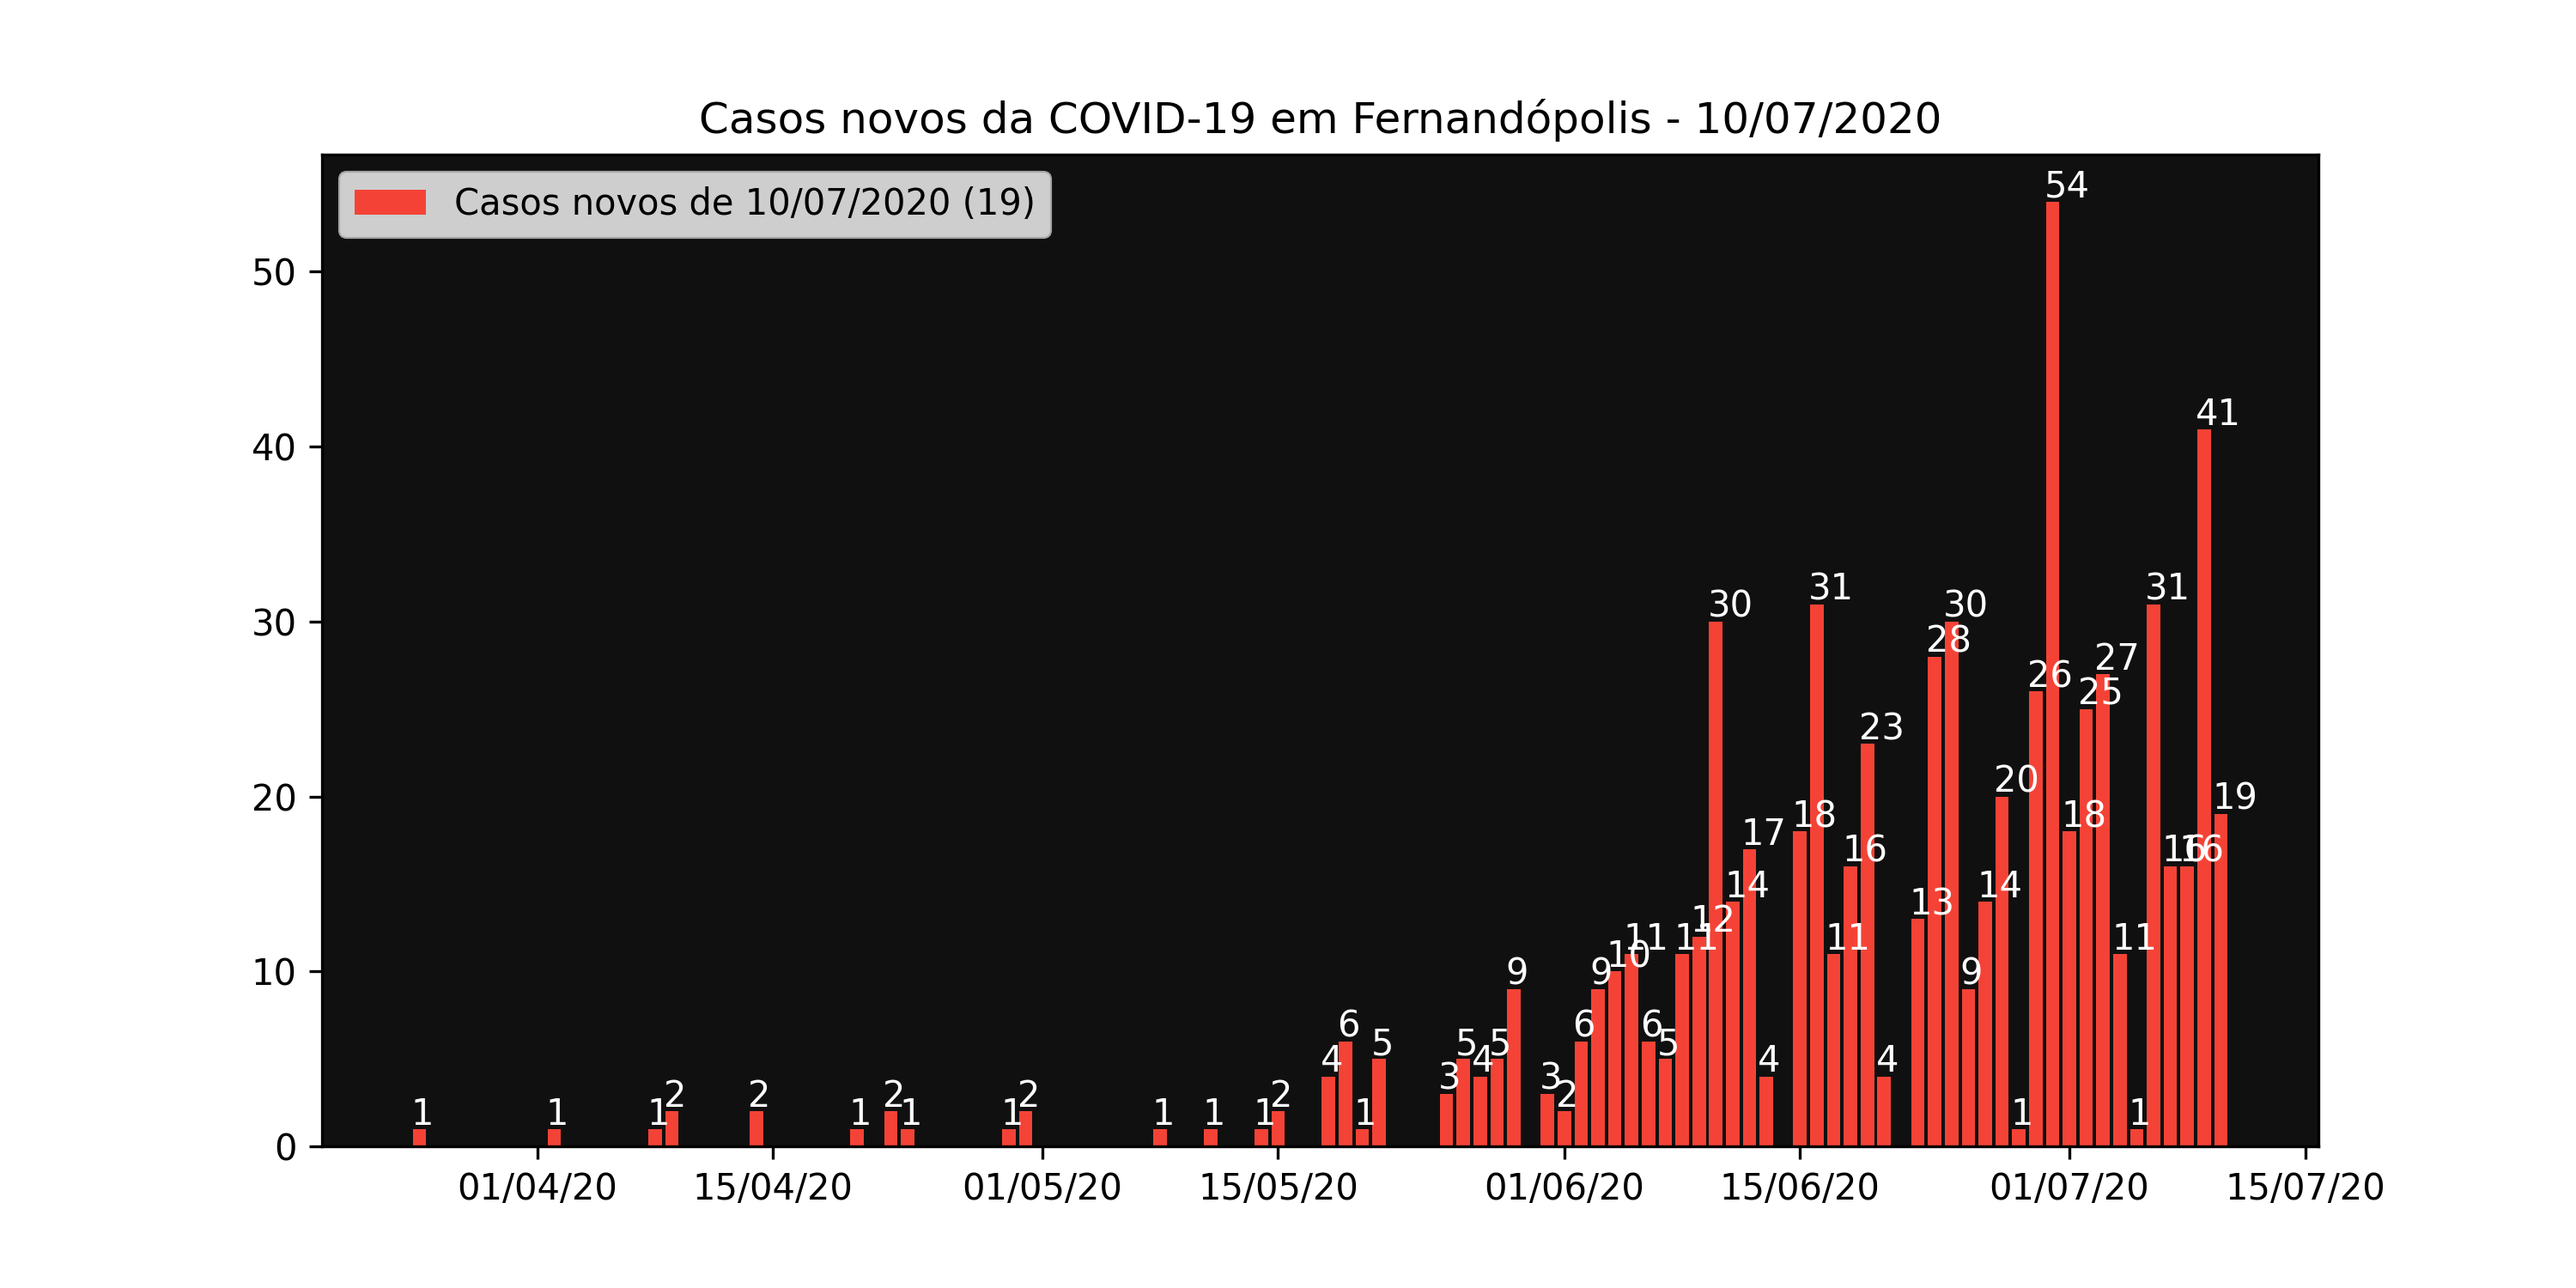
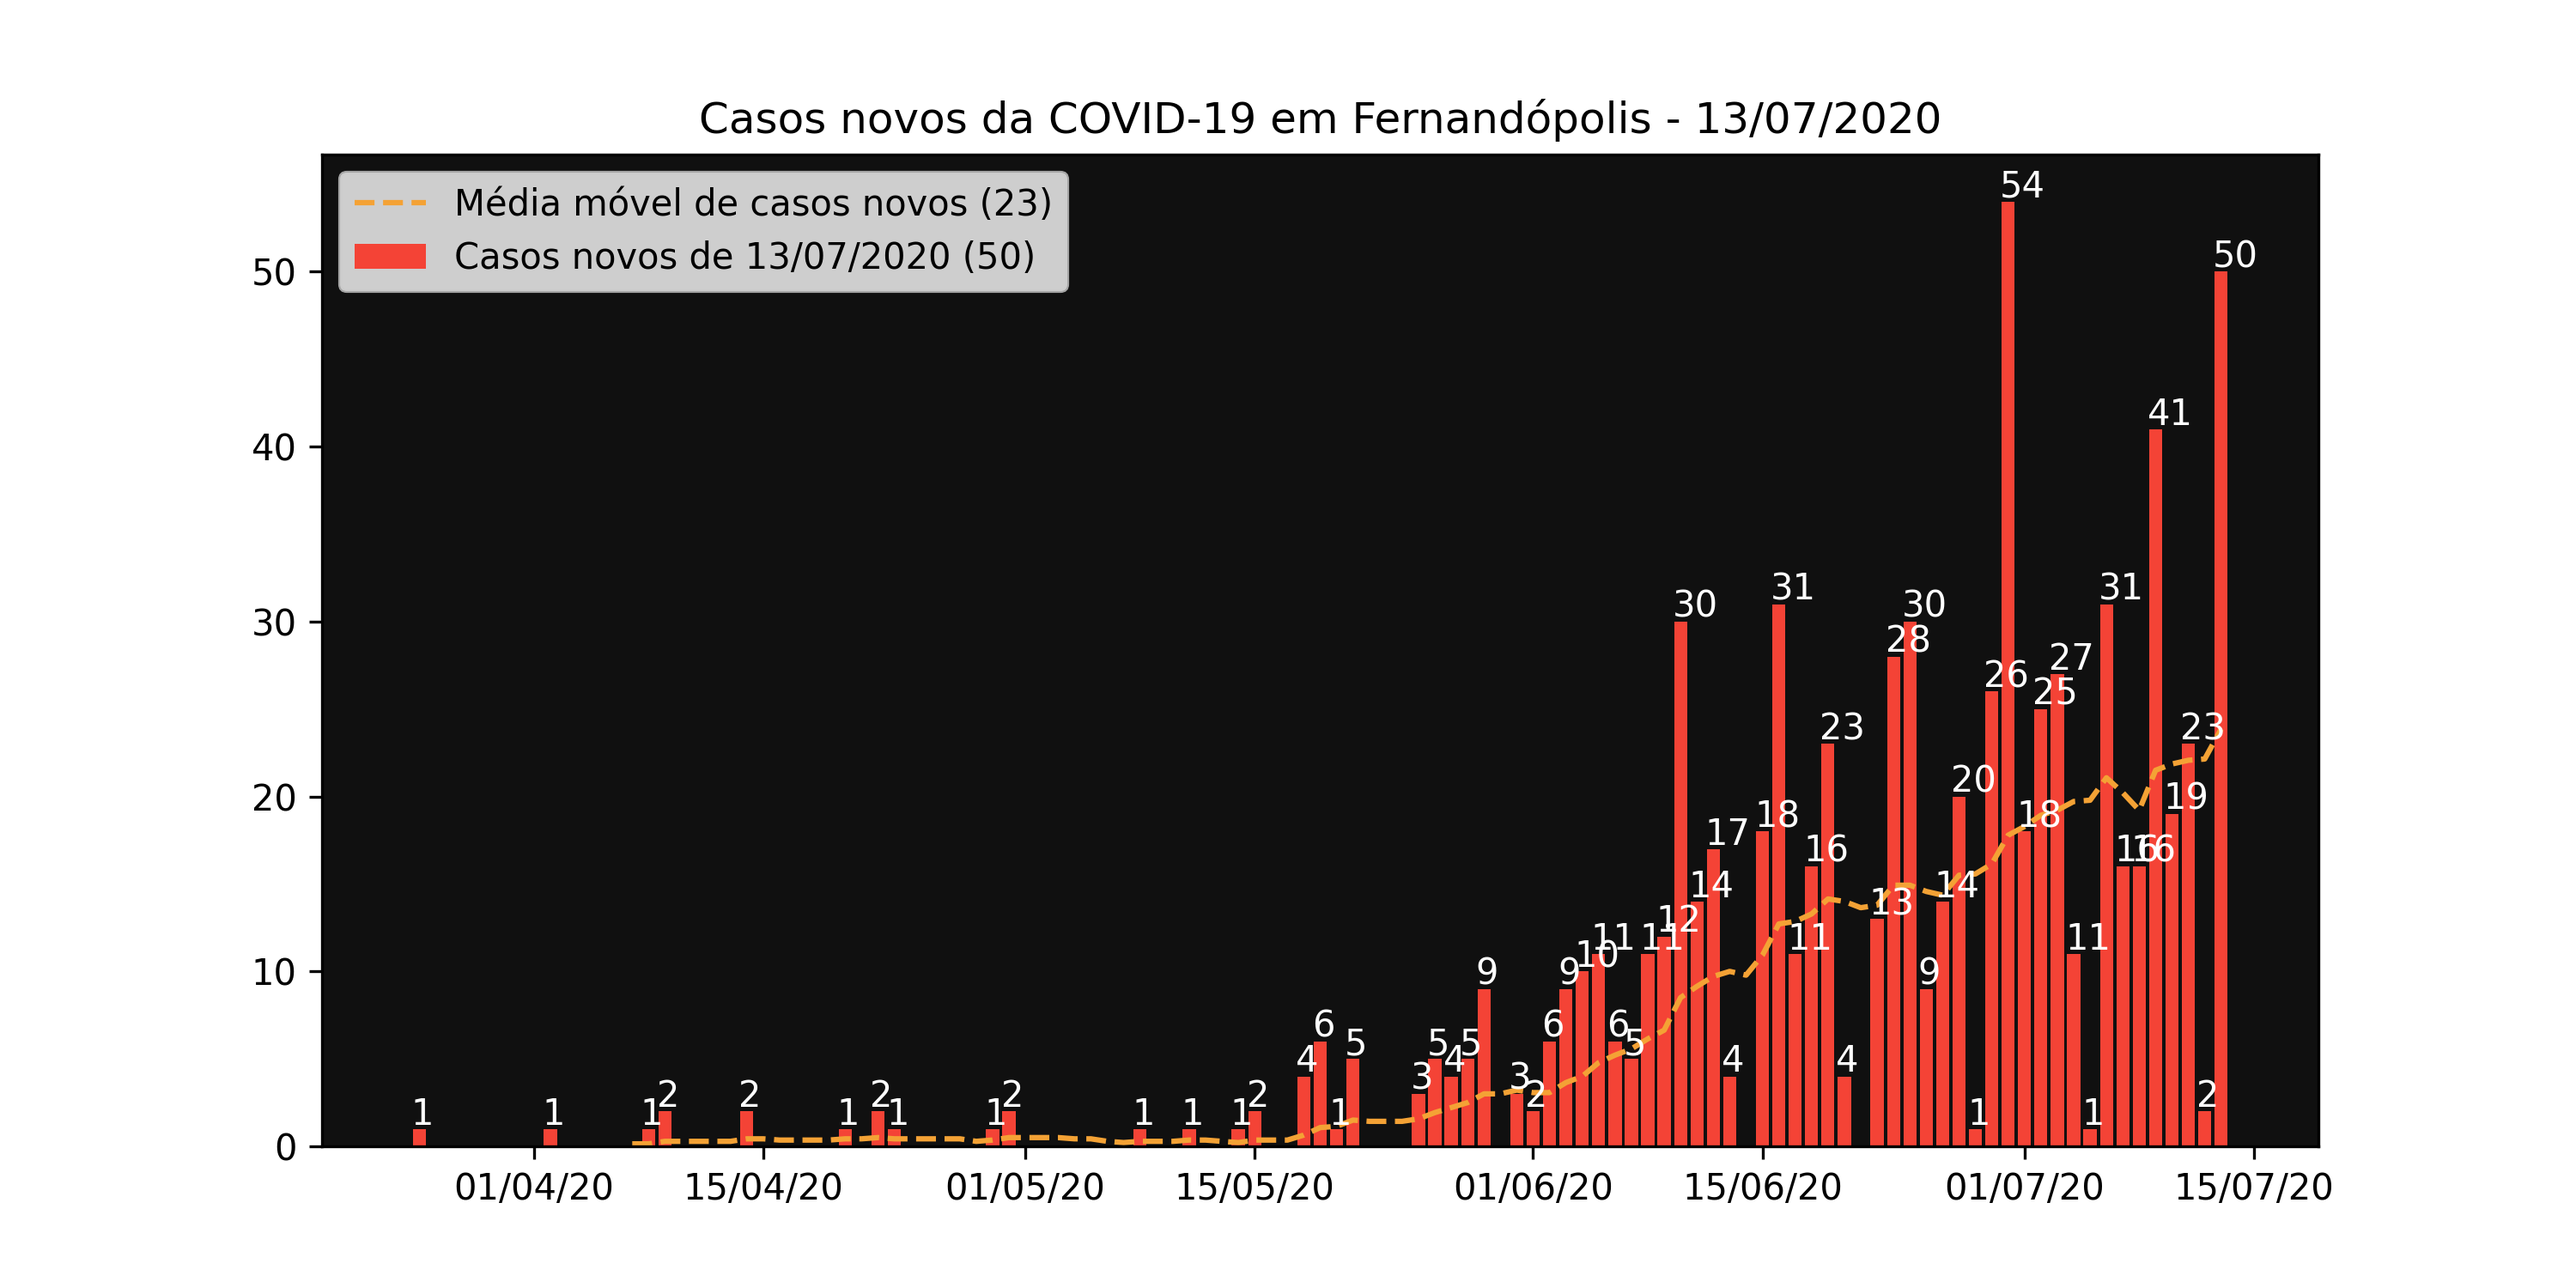
atualização seg 13 jul 2020 20:13:53 -03

Changed region(s): [[0.248, 0.1227, 0.93, 0.9507], [0.124, 0.1227, 0.434, 0.2453], [0.186, 0.8893, 0.248, 0.9507]]

diff --git a/chart-generator/main.py b/chart-generator/main.py
@@ -70,6 +70,9 @@ def bar_chart(ds, dateFmt):
     fig.set_size_inches(10, 5)
     fig.set_dpi(300)
 
+    # calculate moving average
+    moving_average = ds['Novos casos'].rolling(window=14).mean()
+
     # draw the bars
     ax.bar(
         ds['Data'],
@@ -78,6 +81,13 @@ def bar_chart(ds, dateFmt):
         label='Casos novos de {} ({})'.format(
             ds['Data'].iloc[-1].strftime('%d/%m/%Y'),
             ds['Novos casos'].values[-1]))
+    ax.plot(
+        ds['Data'],
+        moving_average,
+        color='#f4a235',
+        linestyle='dashed',
+        label='Média móvel de casos novos ({})'.format(
+            int(np.trunc(moving_average.iloc[-1]))))
 
     # write the number of cases at the top of each bar
     for date in ds['Data']:
